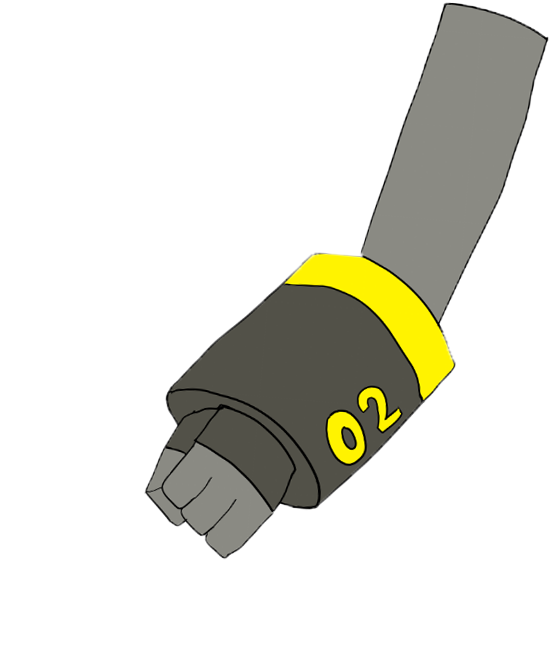
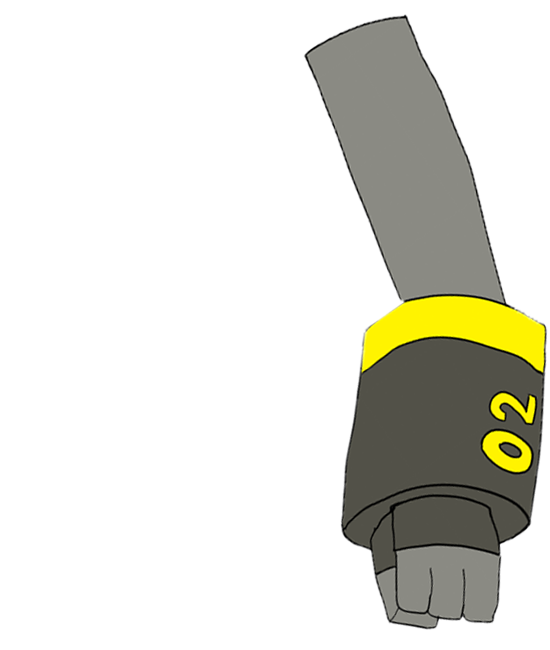
arm move 2

diff --git a/stage1.py b/stage1.py
@@ -151,7 +151,7 @@ def arm3_start(ch, game):
     ch.curr_state = 1
 
 def arm4_start(ch, game):
-    ch.pos = [ 700, 0 ]
+    ch.pos = [ 810, 0 ]
     ch.curr_state = 1
 
 def arm5_start(ch, game):
@@ -159,7 +159,7 @@ def arm5_start(ch, game):
     ch.curr_state = 1
 
 def arm6_start(ch, game):
-    ch.pos = [ 1000, 0 ]
+    ch.pos = [ 995, 0 ]
     ch.curr_state = 1
 
 def laser_field1_start(ch, game):
